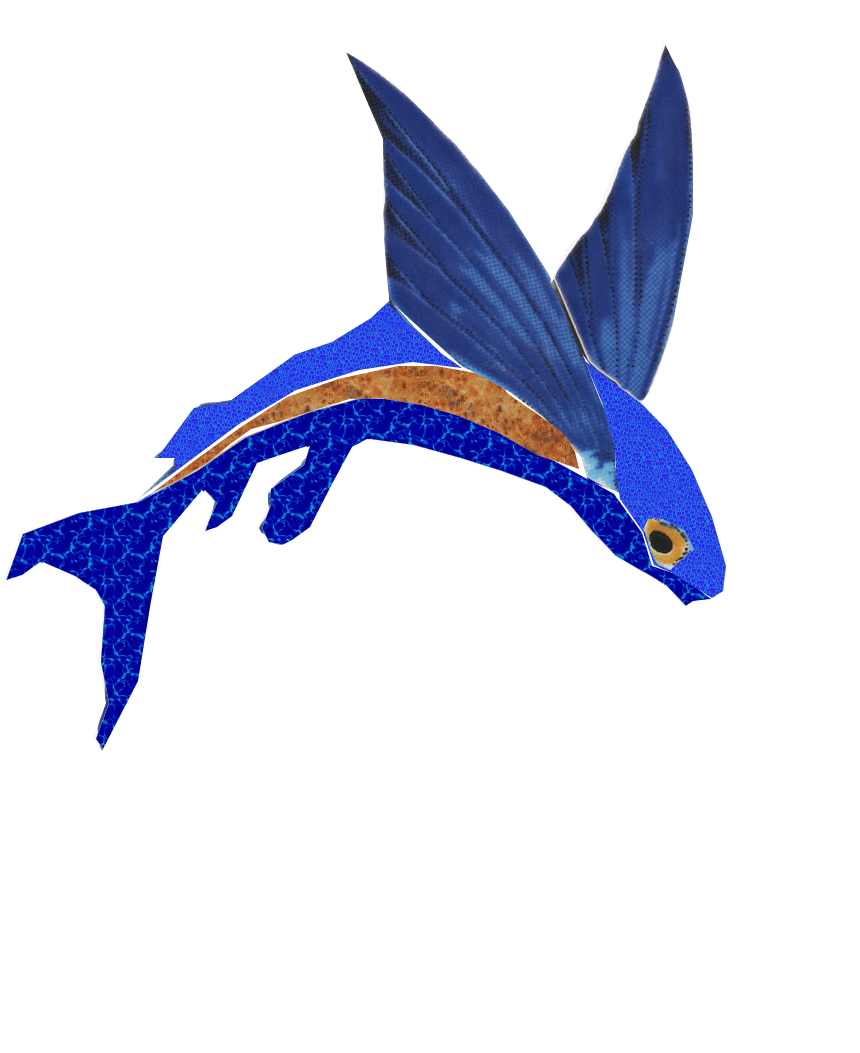
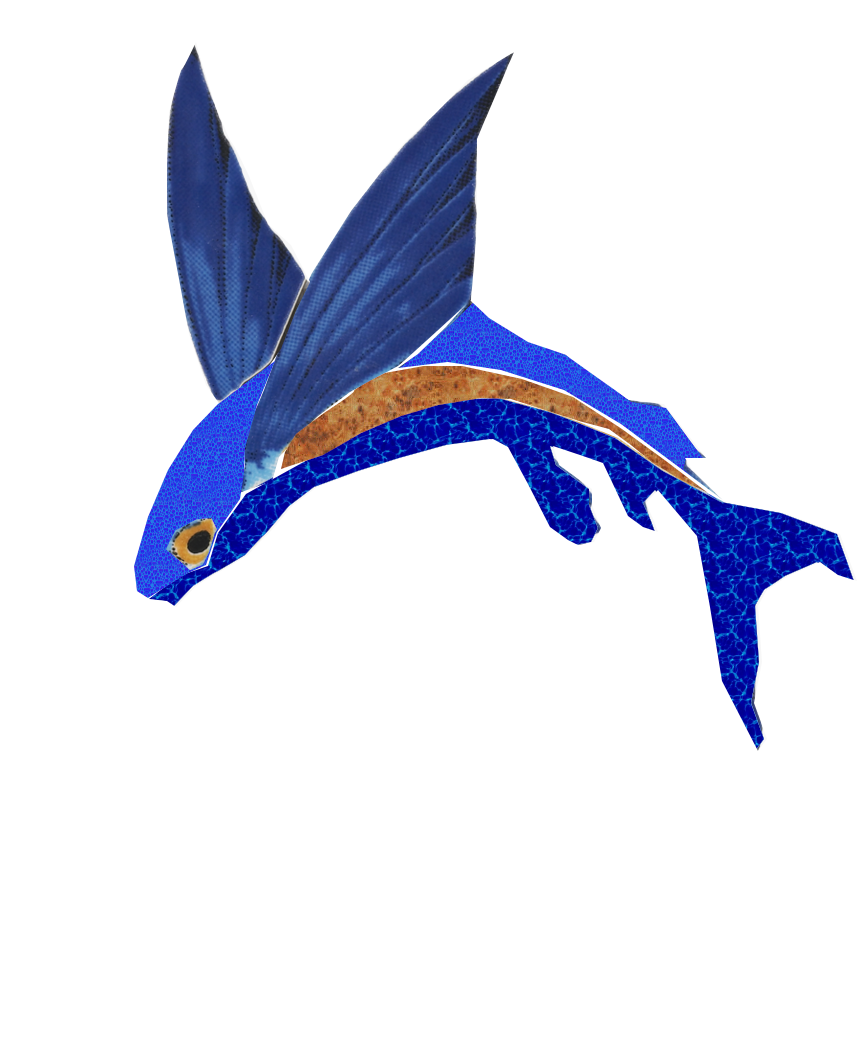
draw fish

Changed region(s): [[0.0, 0.0304, 0.9977, 0.7293]]

diff --git a/index.js b/index.js
@@ -1,31 +1,48 @@
 const cvs = document.getElementById("canvas");
 const ctx = cvs.getContext("2d");
 
-cvs.setAttribute("height", window.innerHeight - 4);
+cvs.setAttribute("height", window.innerHeight);
 cvs.setAttribute("width", window.innerWidth);
 
 let bird = new Image();
 let bg = new Image();
+let fish = new Image();
 
 bg.src = "./Images/SunsetDrawing.jpg";
 bird.src = "./Images/bird_sprite.png";
+fish.src = "./Images/dive.png";
 
 var flySound = new Audio();
 flySound.src = "Sounds/fly.mp3";
 
 let bX = 0;
 let bY = 0;
+
 let birdSizeX = 459;
 let birdSizeY = 150;
+var fishSizeX = 75;
+var fishSizeY = 75;
 
 let time = 0;
-let speed = 5;
+let speed = 10;
+let createFish = true;
+
+let fishCoord = [
+  {
+    x: Math.floor(Math.random() * (cvs.width - cvs.width / 2) + cvs.width / 2),
+    y: cvs.height - 100,
+    maxX: Math.floor(Math.random() * (cvs.height / 3 - 200) + 200),
+    reachedTop: false
+  }
+];
 
 setInterval(() => {
   time++;
   ctx.clearRect(bX, bY, birdSizeX, birdSizeY);
   drawBird();
-}, 100);
+  drawFish();
+  // flySound.play();
+}, 50);
 
 function drawBird() {
   ctx.drawImage(bg, 0, 0, cvs.width, cvs.height);
@@ -40,5 +57,37 @@ function drawBird() {
     birdSizeX / 2,
     birdSizeY
   );
-  flySound.play();
+}
+
+function drawFish() {
+  for (let i = 0; i < fishCoord.length; i++) {
+    let f = fishCoord[i];
+    ctx.drawImage(fish, f.x, f.y, fishSizeX, fishSizeY);
+
+    f.x -= 5;
+
+    if (f.y < f.maxX) {
+      f.reachedTop = true;
+    }
+    if (f.reachedTop == true) {
+      f.y += 5;
+    } else {
+      f.y -= 5;
+    }
+
+    if (f.reachedTop && f.y > cvs.height) {
+      fishCoord.splice(i, 1);
+      console.log(fishCoord.length);
+    }
+  }
+  if (Math.floor(Math.random() * 50) == 25) {
+    fishCoord.push({
+      x: Math.floor(
+        Math.random() * (cvs.width - cvs.width / 2) + cvs.width / 2
+      ),
+      y: cvs.height - 100,
+      maxX: Math.floor(Math.random() * (cvs.height / 3 - 200) + 200),
+      reachedTop: false
+    });
+  }
 }

diff --git a/index.html b/index.html
@@ -5,11 +5,6 @@
     <meta name="viewport" content="width=device-width, initial-scale=1.0" />
     <title>P-E-Q Game</title>
     <!-- <link rel="stylesheet" href="styles.css" /> -->
-    <style>
-      #bird {
-        display: none;
-      }
-    </style>
   </head>
   <body>
     <!-- <div id="menu">
@@ -22,7 +17,6 @@
       <button onclick="About()" name="About" class="menuBtn">About</button>
     </div> -->
     <canvas id="canvas" style="border: 1px solid black;"></canvas>
-    <img src="Images/bird.gif" alt="bird" id="bird" />
     <script src="index.js"></script>
     <!-- <script src="app.js"></script> -->
   </body>

diff --git a/app.js b/app.js
@@ -75,7 +75,8 @@ function draw() {
     if (
       bX + bird.width >= fishCoord[i].x &&
       bX + bird.width <= fishCoord[i].x + fish.width &&
-      bY <= fishCoord[i].y + fish.height && bY + bird.height >= fishCoord[i].y
+      bY <= fishCoord[i].y + fish.height &&
+      bY + bird.height >= fishCoord[i].y
     ) {
       score++;
       console.log(score);
